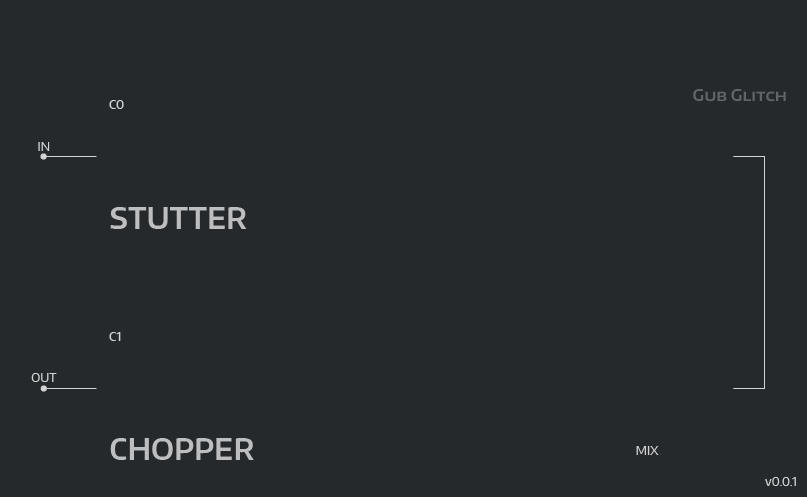
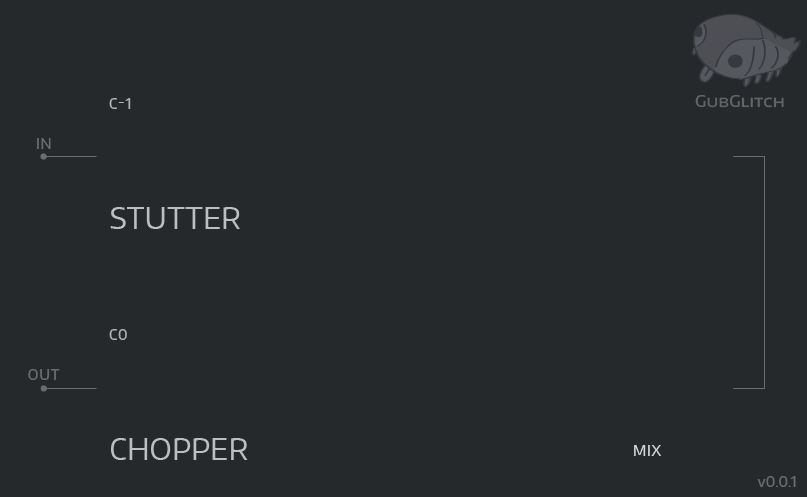
UI Overhaul, Start MIDI Integration
-Tossed the beloved Windows XP aesthetic into the garbage and updated it with something more uhhhhhh *flips through notes*   f   l   a   t 
-Preparations to control plug effects through MIDI, though I have zero clue how to actually do that yet lmao. Things will be messy as I figure this out.
-Probably the last update through GitKraken cause it sUCKS now for locking features behind a paywall. Will hopefully switch to Flow or something for the next commit, fingers crossed...

diff --git a/MIDIManager.cpp b/MIDIManager.cpp
@@ -1,0 +1,108 @@
+#include "MIDIManager.h"
+
+
+void MIDIManager::onMessage(IMidiMsg* midiMsg) {
+	IMidiMsg::EStatusMsg status = midiMsg->StatusMsg();
+	if (status == IMidiMsg::kNoteOn || status == IMidiMsg::kNoteOff) {
+		// check if in specific range before adding??
+		mQueue.Add(midiMsg);
+	}
+}
+
+/*
+
+	OKAY LETS FUCKIN FIGURE THIS SHIT OUT
+
+	advance() just sets up variables for chopper and stutter
+	have separate helper functions that return some number for each effect
+	global variables that state whether each module is active 
+	only do something if that return value has changed 
+	(fuck what if you release and press down the same key quickly tho... prolly handle that from within the MIDI queue to ensure reset)
+	create hasChanged boolean to ensure update is on single frame??
+
+*/
+
+
+void MIDIManager::advance() {
+	
+	// Call this to change param... fucking somehow??
+	//SetParameterFromGUI(kChop_16th, 1.0);
+
+	// if queue is empty, hasChanged = false
+	// otherwise hasChanged = true
+
+	while (!mQueue.Empty()) {
+		IMidiMsg* midiMessage = mQueue.Peek();
+		if (midiMessage->mOffset > mOffset) break;
+
+		IMidiMsg::EStatusMsg status = midiMessage->StatusMsg();
+		int note = midiMessage->NoteNumber();
+		int velocity = midiMessage->Velocity();
+
+		int stutLastNote;
+		int chopLastNote;
+		int keyLastNote;
+
+		// Queue is filtered to only Note On/Off messages
+		if (status == IMidiMsg::kNoteOn && velocity) {
+			if (mKeyStatus[note] == false) {
+				mKeyStatus[note] = true;
+				mNumKeys += 1;
+			}
+
+			// Selective polyphony
+			if (note >= 12 && note <= 23) {
+				if (note != chopLastNote) {
+					chopLastNote = note;
+					// activate chopper
+				}
+			}
+
+			else if (note >= 24) {
+				if (note != keyLastNote) {
+					keyLastNote = note;
+					keyLastFreq = noteToFreq(keyLastNote);
+					keyLastVel = velocity;
+				}
+			}
+
+			else if (note <= 11) {
+				if (note != stutLastNote) {
+					stutLastNote = note;
+					// activate stutter
+				}
+			}
+		}
+
+		// Note Off
+		else {
+			if (mKeyStatus[note]) {
+				mKeyStatus[note] = false;
+				mNumKeys -= 1;
+			}
+
+			// If the last note in each range was released, deactivate the associated effect
+			if (note >= 12 && note <= 23) {
+				if (note == chopLastNote) {
+					chopLastNote = -1;
+					// deactivate chopper
+				}
+			}
+			else if (note <= 24) {
+				if (note == keyLastNote) {
+					keyLastNote = -1;
+					keyLastFreq = -1.0;
+					keyLastVel = 0;
+				}
+			}
+			else if (note <= 11) {
+				if (note == stutLastNote) {
+					stutLastNote = -1;
+					// Deactivate stutter
+				}
+			}
+		}
+		mQueue.Remove();
+	}
+	mOffset++;
+}

diff --git a/Stutter.cpp b/Stutter.cpp
@@ -10,7 +10,17 @@ void Stutter::setLength(double division) {
 	c = 0;
 	isFull = false;
 	isActive = true;
-	weightA = sLength;
+	weightA = lerpLength;
+	weightB = 0;
+}
+
+void Stutter::setKeyLength(double freq) {
+	deckLength = freq * gSampleRate;
+	deck.resize(deckLength);
+	c = 0;
+	isFull = false;
+	isActive = true;
+	weightA = lerpLength;
 	weightB = 0;
 }
 
@@ -18,27 +28,46 @@ double Stutter::process(double input) {
 
 	// Fill the stutter deck until it's full
 	if (!isFull) {
-		// Average last values of the deck towards first value
-		// Prevents pops and clicks when looping the deck
-		// Fuck, this is gonna have to work differently for KEY
-		if (c > deckLength - sLength) {
-			deck[c++] = ((input * weightA) + (deck[0] * weightB)) / sLength;
+
+		double output;
+		deck[c++] = input;
+
+		// To prevent pops and clicks when looping the deck, average last values of the deck towards first value
+		// Done without writing to the deck itself to accomodate for variable length of KEY
+		if (c > deckLength - lerpLength) {
+			output = ((deck[c-1] * weightA) + (deck[0] * weightB)) / lerpLength;
 			weightA--;
-			weightB = sLength - weightA;
+			weightB = lerpLength - weightA;
 		}
-		else
-			deck[c++] = input;
+		else output = input;
 
 		// Deck full, stop filling it
-		if (c == deckLength)
+		if (c == deckLength) {
 			isFull = true;
+			weightA = lerpLength;
+			weightB = 0;
+		}
 
-		return input;
+		return output;
 	}
+
 	// Loop the deck after it's been filled
 	else {
-		if (c == deckLength)
+
+		if (c == deckLength) {
 			c = 0;
-		return deck[c++];
+			weightA = lerpLength;
+			weightB = 0;
+		}
+
+		// To prevent pops and clicks when looping the deck, average last values of the deck towards first value 
+		// Processed in realtime to accomodate for variable loop length with KEY
+		if (c > deckLength - lerpLength) {
+			double output = ((deck[c++] * weightA) + (deck[0] * weightB)) / lerpLength;
+			weightA--;
+			weightB = lerpLength - weightA;
+			return output;
+		}
+		else return deck[c++];
 	}
 }

diff --git a/GubGlitch.cpp b/GubGlitch.cpp
@@ -222,18 +222,30 @@ void GubGlitch::ProcessDoubleReplacing(double* inputs[], double* outputs[], int 
   double* outL = outputs[0];
   double* outR = outputs[1];
 
-  for (int s = 0; s < nFrames; ++s)
-  {
+  //SetParameterFromGUI(kChop_16th, 1.0);
+
+  //activateChopper(2);
+
+  /*
+  
+		if (MIDIManager.hasUpdated) {
+			// activate or deactivate effect
+		}
+
+  */
+
+  for (int s = 0; s < nFrames; ++s) {
 
 	  if (stutterL.isActive) {
 		  outL[s] = stutterL.process(inL[s]) * chopper.nextSample();
 		  outR[s] = stutterR.process(inR[s]) * chopper.nextSample();
-	   }
+	  }
 	  else {
 		  outL[s] = inL[s] * chopper.nextSample();
 		  outR[s] = inR[s] * chopper.nextSample();
 	  }
   }
+  mMIDI.Flush(nFrames);
 }
 
 void GubGlitch::Reset()
@@ -246,12 +258,10 @@ void GubGlitch::Reset()
 
 // TO DO: Modify these godawful parameters into something clean and readable
 
-void GubGlitch::OnParamChange(int paramIdx)
-{
+void GubGlitch::OnParamChange(int paramIdx) {
   IMutexLock lock(this);
 
-  switch (paramIdx)
-  {
+  switch (paramIdx) {
   case kChop_2nd:
 	  if (GetParam(kChop_2nd)->Value()) chopper.setChopper(2.0);
 	  else chopper.setActive(false);
@@ -443,3 +453,18 @@ void GubGlitch::OnParamChange(int paramIdx)
       break;
   }
 }
+
+void GubGlitch::activateChopper(int div) {
+	//SetParameterFromGUI(kChop_16th, 1.0);
+	GetGUI()->SetParameterFromPlug(kChop_16th, 1.0, true);
+}
+
+void GubGlitch::deactivateChopper() {
+	SetParameterFromGUI(kChop_16th, 0.0);
+}
+
+/*
+void GubGlitch::SetParameterFromGUI() {
+
+}
+*/

diff --git a/MIDIManager.h b/MIDIManager.h
@@ -1,0 +1,51 @@
+#pragma once
+#ifndef __MIDIMANAGER__
+#define __MIDIMANAGER__
+
+#include "IPlug_include_in_plug_hdr.h"
+#include "IMidiQueue.h"
+
+
+class MIDIManager {
+
+private:
+	IMidiQueue mQueue;
+	static const int keyCount = 128;
+	int mNumKeys;						// how many keys are pressed down at the moment
+	bool mKeyStatus[keyCount];			// array of on/off for each key, index is note number
+
+	int chopLastNote;
+	int stutLastNote;
+	int keyLastNote;
+
+	double keyLastFreq;
+	int keyLastVel;
+	int mOffset;
+
+	inline double noteToFreq(int note) { return 440.0 * pow(2.0, (note - 69.0) / 12.0); }
+
+public:
+	bool updateChopper;
+	bool updateStutter;
+	void advance();
+	void onMessage(IMidiMsg* midiMsg);
+	inline int getNumKeys() const { return mNumKeys; }
+	inline bool getKeyStatus(int keyIndex) const { return mKeyStatus[keyIndex]; }
+	inline void Flush(int frames) { mQueue.Flush(frames); mOffset = 0; }
+	inline void Resize(int blockSize) { mQueue.Resize(blockSize); }
+	MIDIManager() :
+		mNumKeys(0),
+		chopLastNote(-1),
+		stutLastNote(-1),
+		keyLastNote(-1),
+		keyLastFreq(-1.0),
+		keyLastVel(0),
+		mOffset(0) {
+		for (int i = 0; i > keyCount; i++) {
+			mKeyStatus[i] = false;
+		}
+	};
+
+};
+
+#endif

diff --git a/GubGlitch.h b/GubGlitch.h
@@ -2,8 +2,11 @@
 #define __GUBGLITCH__
 
 #include "IPlug_include_in_plug_hdr.h"
+//#include "IGraphics.h"
+//#include "IPlugBase.h"
 #include "Chopper.h"
 #include "Stutter.h"
+#include "MIDIManager.h"
 
 // Sample rate and tempo are GLOBALS
 extern double gSampleRate;
@@ -19,12 +22,19 @@ public:
   void OnParamChange(int paramIdx);
   void ProcessDoubleReplacing(double* inputs[], double* outputs[], int nFrames);
 
+  void activateChopper(int div);
+  void activateStutterDiv(int div);
+  void activateStutterKey(double freq);
+  void deactivateChopper();
+  void deactivateStutter();
+
 private:
   Chopper chopper;
   int chopperDivision;
   double chopperMix = 1.0;
   Stutter stutterL;
   Stutter stutterR;
+  MIDIManager mMIDI;
 };
 
 #endif

diff --git a/Stutter.h b/Stutter.h
@@ -1,6 +1,7 @@
 #pragma once
 #ifndef __STUTTER__
 #define __STUTTER__
+
 #include <math.h>
 #include <vector>
 #include "IPlugStructs.h"
@@ -14,12 +15,13 @@ private:
 	int deckLength;
 	int c;
 	bool isFull;
-	const int sLength = 10;
+	const int lerpLength = 44;
 	int weightA;
 	int weightB;
 
 public:
 	void setLength(double division);
+	void setKeyLength(double freq);
 	double process(double input);
 	inline void setActive(bool muted) { isActive = muted; }
 	bool isActive;

diff --git a/Chopper.cpp b/Chopper.cpp
@@ -18,7 +18,7 @@ void Chopper::updateMix(double mix) {
 	// Scale range of values from -1.0 to 1.0
 	mix = mix / 100.0;
 
-	// TO DO: alter scaling from linear to logarithmic
+	// TO DO : Check if this scaling is indeed logarithmic? I think it is??
 	if (mix > 0.0) {
 		mixA = 1.0;
 		mixB = pow(-mix + 1.0, 6);

diff --git a/Chopper.h b/Chopper.h
@@ -1,6 +1,7 @@
 #pragma once
 #ifndef __CHOPPER__
 #define __CHOPPER__
+
 #include <math.h>
 #include "IPlugStructs.h"
 
